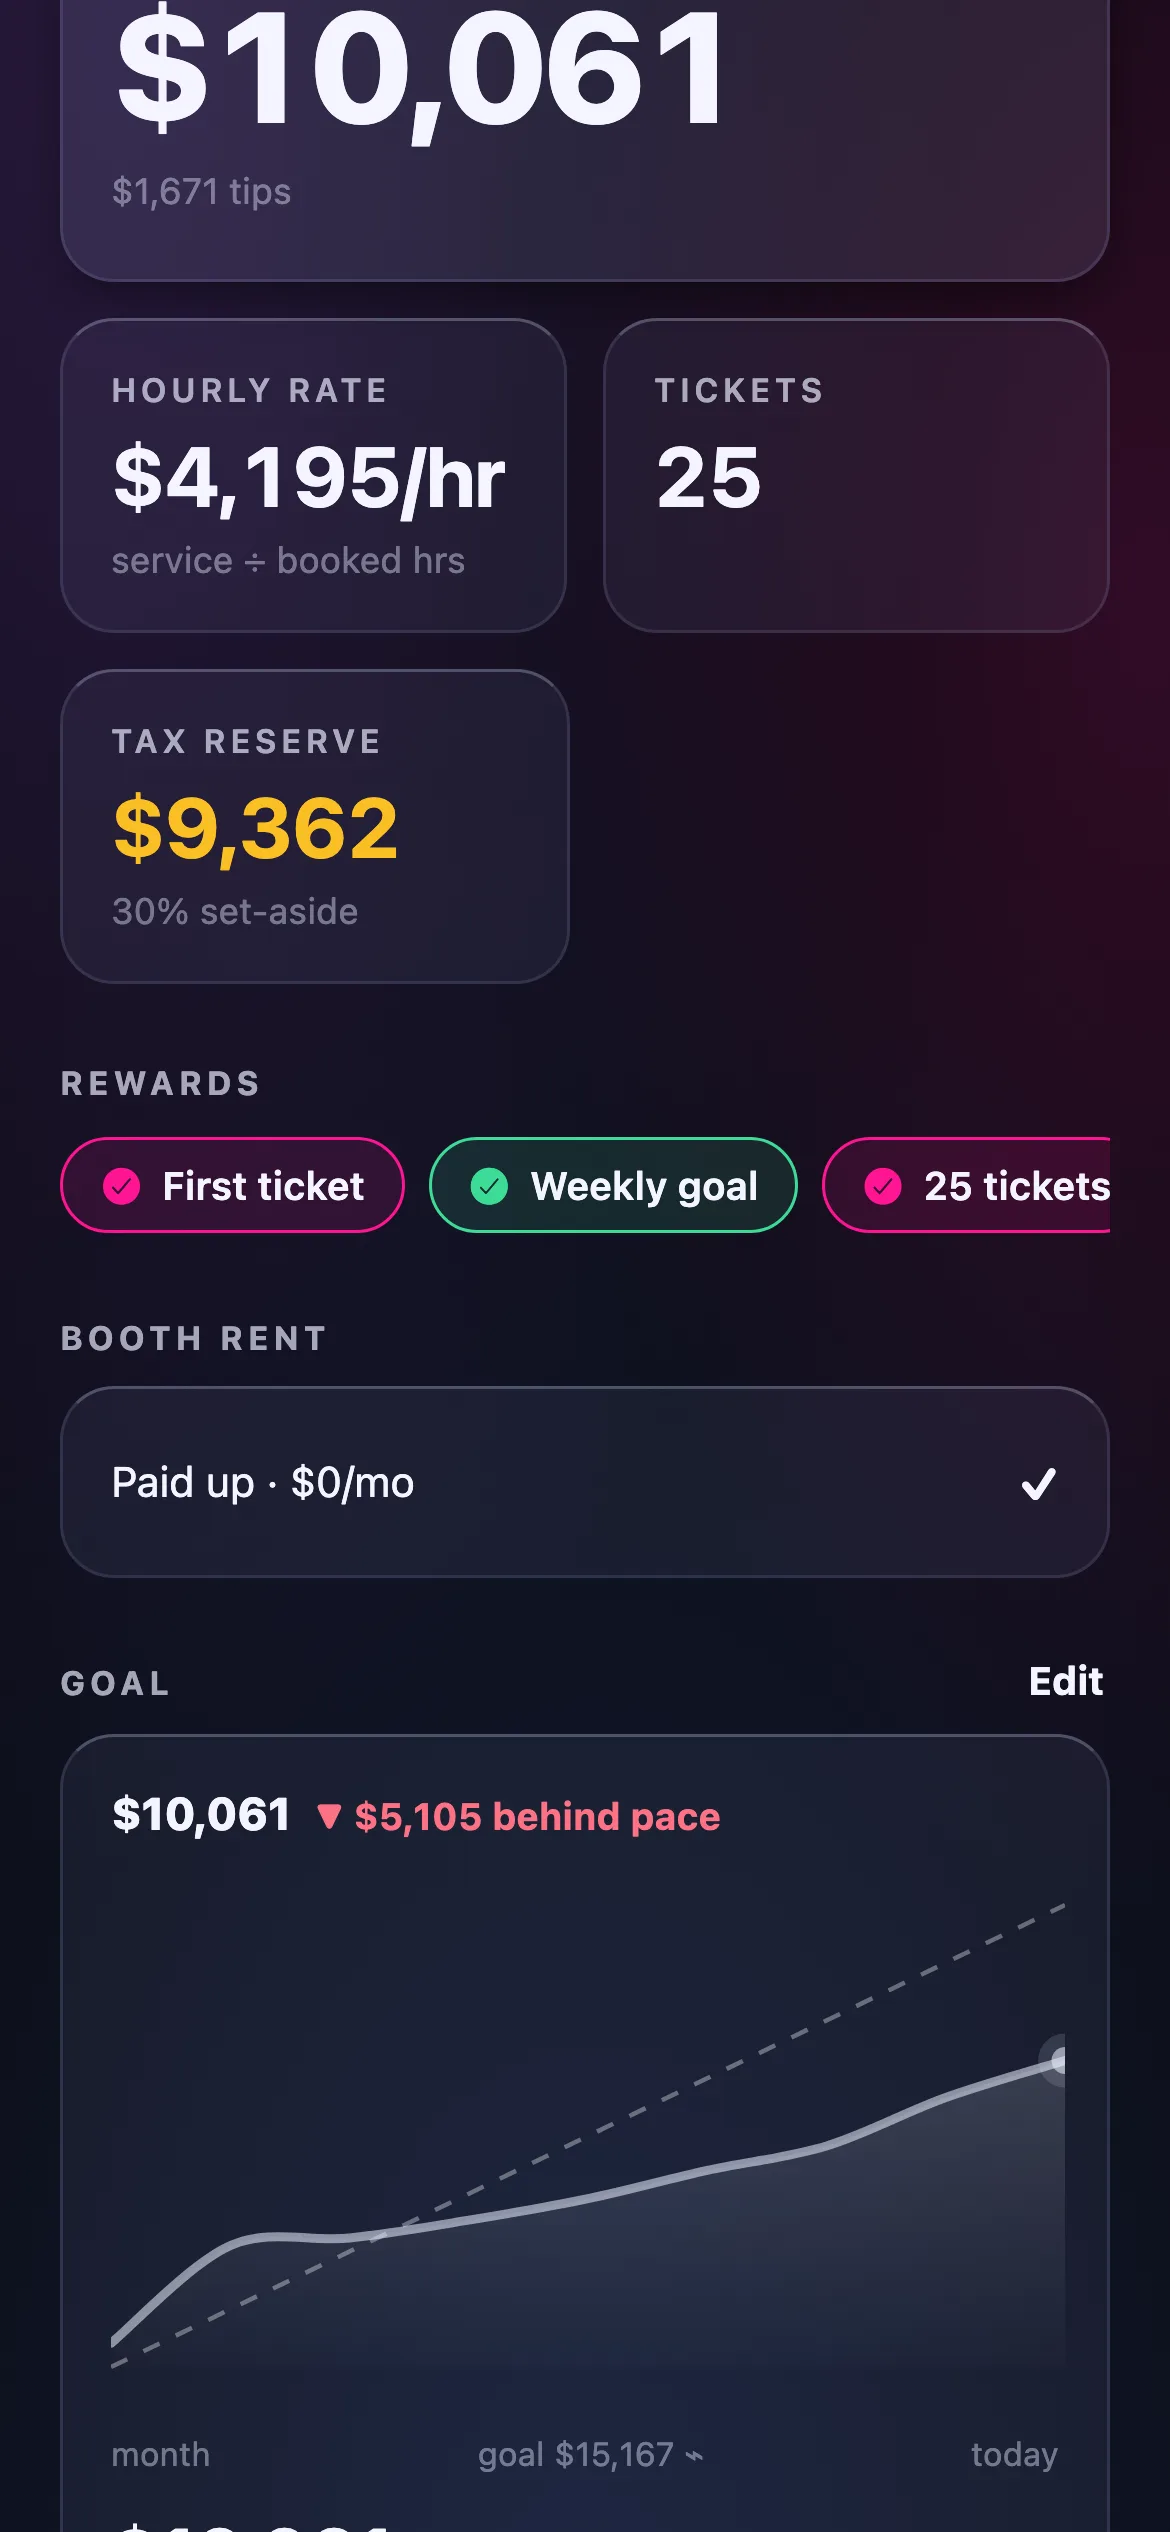
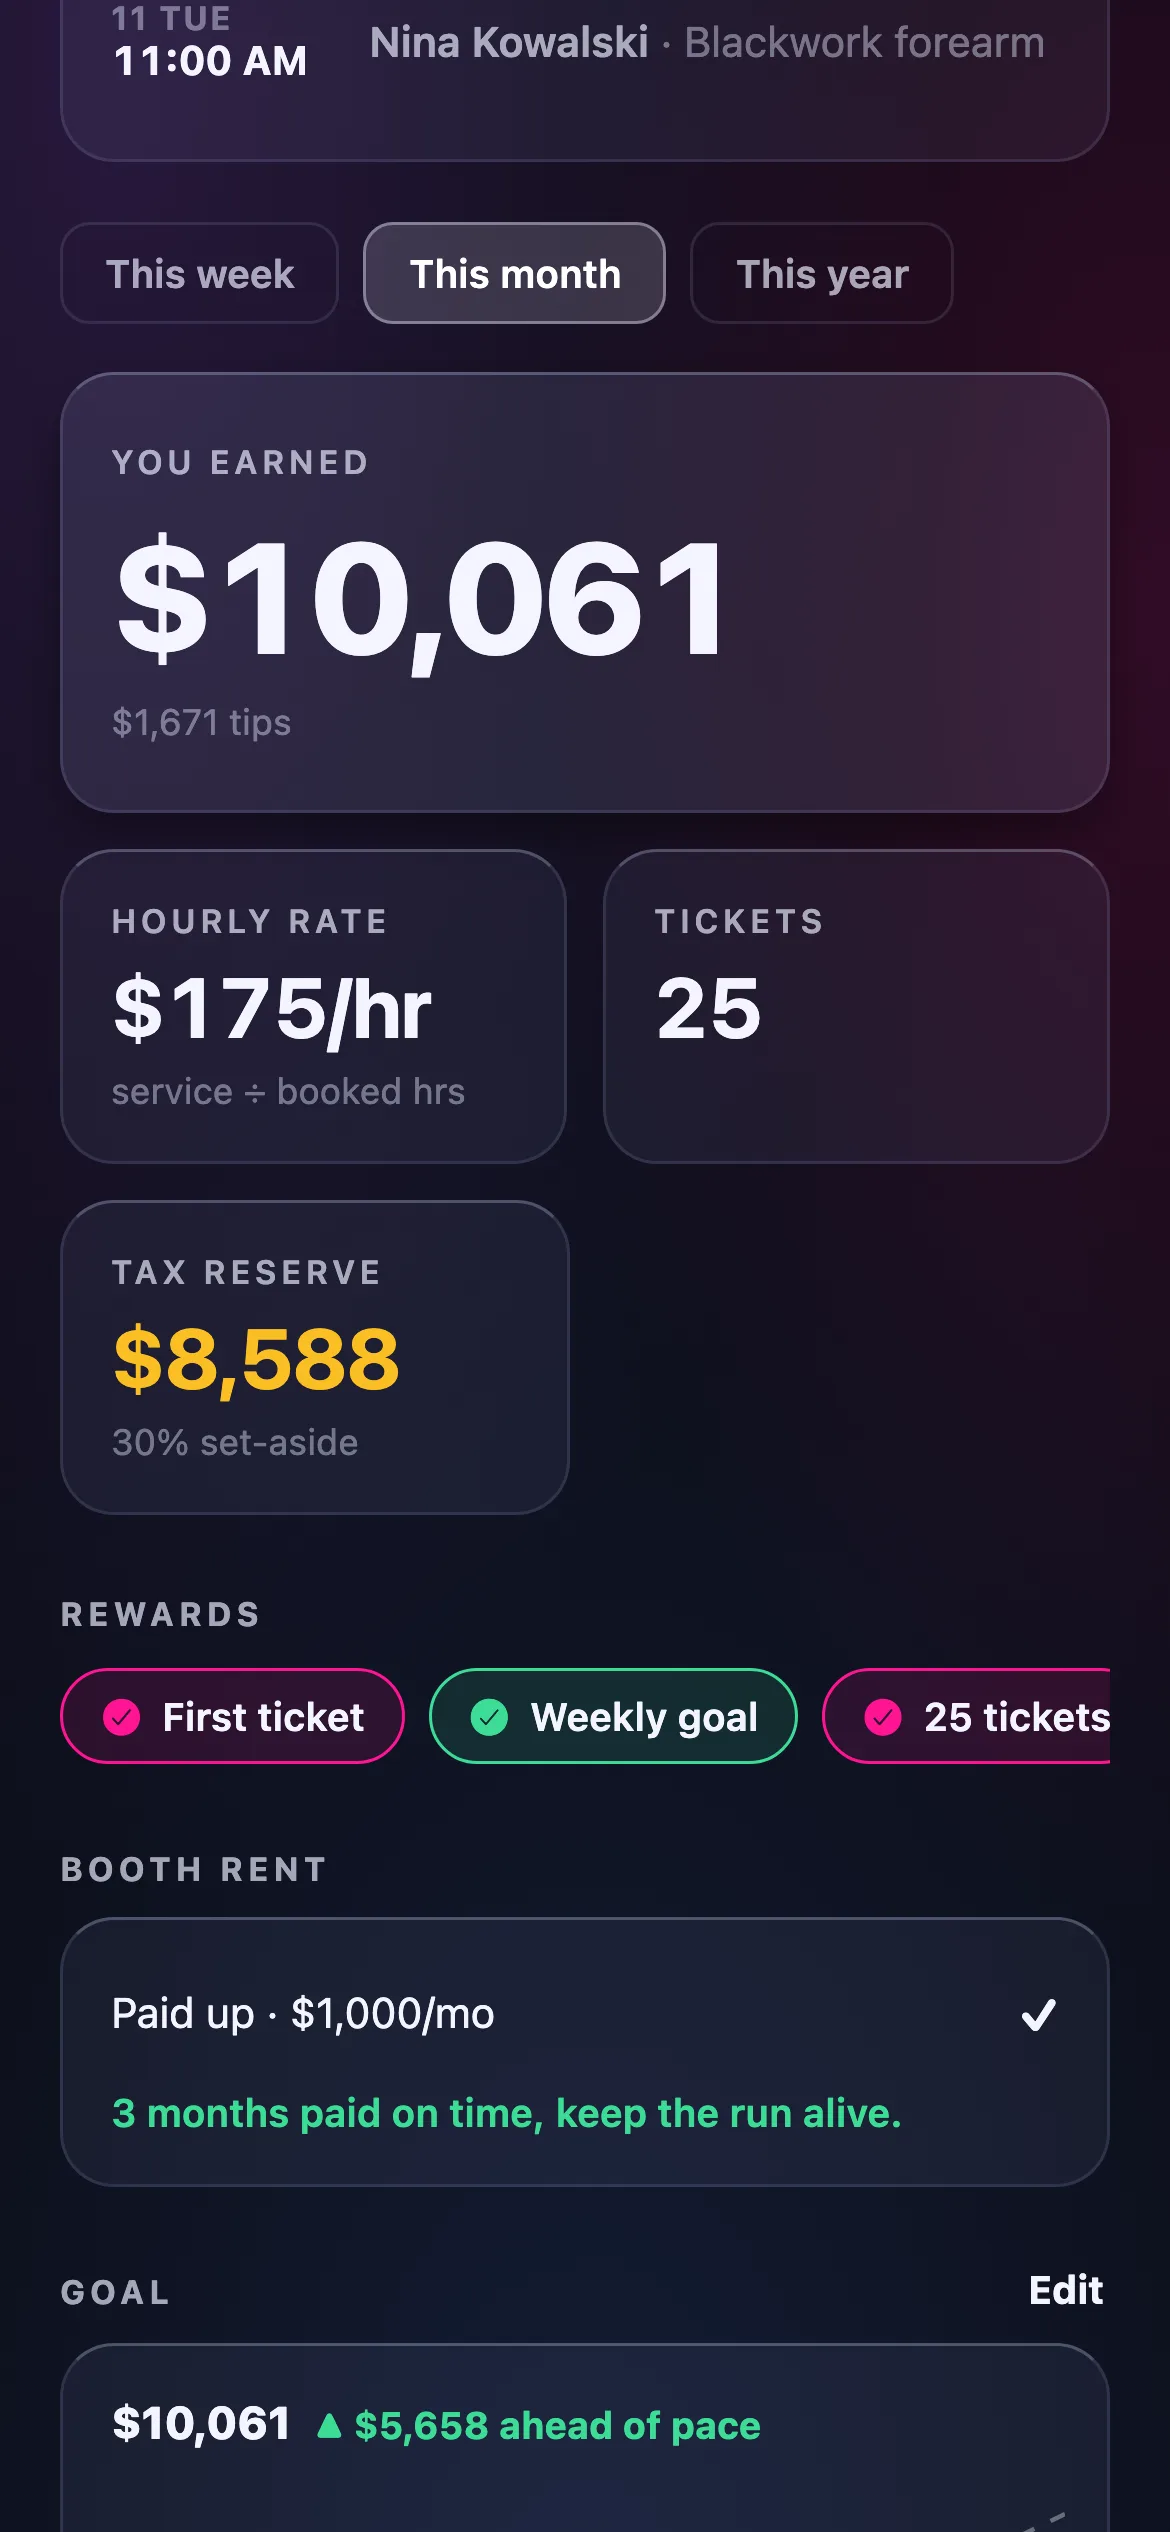
The perfect demo account, and a real pace-math fix it surfaced
Scott's call: marketing screenshots should show the ideal account. New
scripts/seed-perfect-demo.mjs dresses the demo tenant: every booking gets a
real session title (no more Demo session), Sam's month carries ~47 booked
hours so the hourly rate reads $175/hr instead of $4,195/hr, today shows a
finished morning with a client in the chair within the hour, the week ahead
is booked with deposits held, booth rent is $1,000/mo paid three months
running, and eight supply-run deductions are logged YTD. Idempotent via a
demo-perfect tag; demo shop only.

The chase exposed a real app bug: MoneyChart's pace prorate divided elapsed
days by elapsed days, so the goal chip raced the FULL month goal from day
one and read "behind pace" all month for everyone. New rangeDays prop
(daysInRange helper) fixes the prorate; ArtistMoney and the shop home pass
it. The demo chart now reads "$5,658 ahead of pace" in green, because it is.

Gotcha for future seeds: artist_expenses rows need shop_id set explicitly;
the stamping trigger falls back to the Lumenati shop for the service role
and RLS hides the rows from the artist.

diff --git a/app-native/components/MoneyChart.tsx b/app-native/components/MoneyChart.tsx
@@ -28,6 +28,9 @@ type Props = {
   startISO?: string;
   /** Range goal — draws the pace line. Omit when no goal is set. */
   goalCents?: number;
+  /** Total days in the range (7 for a week, 31 for August). Drives the pace
+      prorate; without it the chip races the FULL goal from day one. */
+  rangeDays?: number;
   /** 3+ week streak turns the pace line gold. */
   streak?: number;
   width: number;
@@ -51,7 +54,7 @@ function smoothPath(pts: { x: number; y: number }[]): string {
   return d;
 }
 
-export default function MoneyChart({ series, startLabel, endLabel, startISO, goalCents, streak = 0, width }: Props) {
+export default function MoneyChart({ series, startLabel, endLabel, startISO, goalCents, rangeDays, streak = 0, width }: Props) {
   const onFire = streak >= 3;
   const draw = useRef(new Animated.Value(0)).current;
   const [drawn, setDrawn] = useState(false);
@@ -75,7 +78,9 @@ export default function MoneyChart({ series, startLabel, endLabel, startISO, goa
     const today = vals[vals.length - 1] ?? 0;
 
     // Pace today = the goal prorated to how far through the range we are.
-    const paceToday = goalCents ? Math.round((goalCents * vals.length) / n) : 0;
+    // vals.length is days elapsed; rangeDays is the whole range (fall back to
+    // n, which degrades to racing the full goal).
+    const paceToday = goalCents ? Math.round(goalCents * Math.min(1, vals.length / (rangeDays ?? n))) : 0;
     const top = Math.max(...vals, goalCents ?? 0, 1);
 
     const x = (i: number) => (i / (n - 1)) * width;
@@ -95,7 +100,7 @@ export default function MoneyChart({ series, startLabel, endLabel, startISO, goa
       ahead: goalCents ? today >= paceToday : true,
       deltaCents: goalCents ? today - paceToday : 0,
     };
-  }, [series, goalCents, width]);
+  }, [series, goalCents, rangeDays, width]);
 
   // Scrub: the dot + hairline follow the finger every frame via Animated
   // values (setValue skips React re-render — that's the whole smoothness

diff --git a/app-native/app/(app)/home.tsx b/app-native/app/(app)/home.tsx
@@ -19,7 +19,7 @@ import WeekBars from "@/components/WeekBars";
 import GoalDial from "@/components/GoalDial";
 import { LumenatiLogo } from "@/components/LumenatiLogo";
 import CoachDeck from "@/components/CoachDeck";
-import { cumulativeSeries, earnedInRange, last7Days, startOf, type Range } from "@/lib/personal";
+import { cumulativeSeries, daysInRange, earnedInRange, last7Days, startOf, type Range } from "@/lib/personal";
 import { loadShopMoney, shopCoachTips, type ShopMoney } from "@/lib/shop-coach";
 import { apiDelete } from "@/lib/appApi";
 
@@ -496,6 +496,7 @@ function StaffHome({ firstName, role, reloadKey }: { firstName: string; role: st
               endLabel="today"
               startISO={startOf(range)}
               goalCents={goalCents > 0 ? goalCents : undefined}
+              rangeDays={daysInRange(range)}
               width={CHART_W}
             />
             {goalCents > 0 ? (

diff --git a/app-native/lib/personal.ts b/app-native/lib/personal.ts
@@ -16,6 +16,16 @@ export const startOf = (range: Range): string => {
   return new Date(monday.getTime() - monday.getTimezoneOffset() * 60000).toISOString().slice(0, 10);
 };
 
+// Total days in the range — feeds MoneyChart's pace prorate so "ahead of
+// pace" compares against today's share of the goal, not the whole thing.
+export const daysInRange = (range: Range): number => {
+  const d = new Date();
+  if (range === "week") return 7;
+  if (range === "month") return new Date(d.getFullYear(), d.getMonth() + 1, 0).getDate();
+  const y = d.getFullYear();
+  return (y % 4 === 0 && y % 100 !== 0) || y % 400 === 0 ? 366 : 365;
+};
+
 export type SaleRow = { created_at: string; service_cents: number; tip_cents: number };
 export type BookingRow = { starts_at: string; ends_at: string | null; status: string; client_id: string | null };
 

diff --git a/app-native/components/ArtistMoney.tsx b/app-native/components/ArtistMoney.tsx
@@ -24,6 +24,7 @@ import {
   taxStatusForPayType,
   type RentStatus,
   cumulativeSeries,
+  daysInRange,
   weeklyStreak,
   earnedInRange,
   hourlyInRange,
@@ -214,6 +215,7 @@ export default function ArtistMoney({
           endLabel="today"
           startISO={startOf(range)}
           goalCents={goalCents > 0 ? goalCents : undefined}
+          rangeDays={daysInRange(range)}
           streak={streak}
           width={CHART_W}
         />
